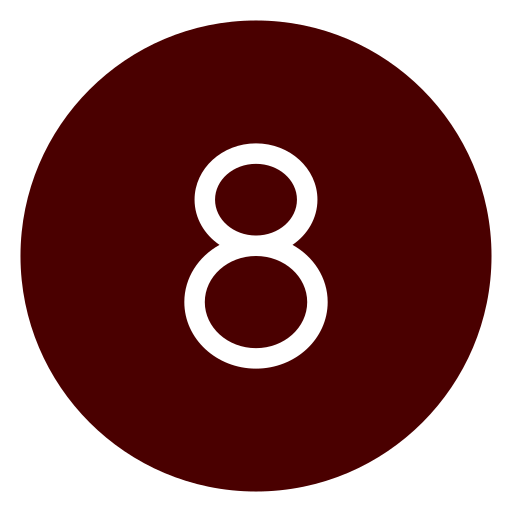
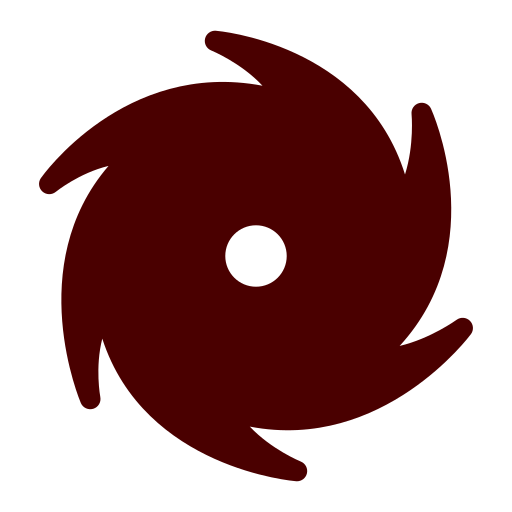
fix: PRE8 uses Icons8 hurricane; tone follows winning weather action
HKO has no PRE8 GIF. Drop the homemade 8-circle. Typical PRE8 sits on TC3.
Tsunami is high-impact with official HKO art. Combo screens no longer keep leftover HSWW yellow when PRE8/T8 wins.

Changed region(s): [[0.0312, 0.0312, 0.9688, 0.9688], [0.3438, 0.2812, 0.6562, 0.7188]]

diff --git a/tests/test_sim_cases.py b/tests/test_sim_cases.py
@@ -75,8 +75,20 @@ def test_black_rain_caption_not_typhoon():
 def test_pre8_has_short_caption():
     snap = build_case("pre8")
     assert snap["priority"]["band"] == "P1"
-    assert "八號" in snap["hko"]["headlineZh"]
-    assert snap["hko"]["headlineZh"] != "香港天文台發出最新熱帶氣旋警報"
+    assert snap["display"]["action"] == "盡早返回有蓋處"
+    assert "八號" in snap["display"]["actionSub"]
+    codes = [s["code"] for s in snap["signals"]]
+    assert "WTCPRE8" in codes
+    assert "TC3" in codes
+
+
+def test_winning_weather_action_sets_tone_not_leftover_hsww():
+    pre8a = build_case("pre8-amber")
+    assert pre8a["display"]["action"] == "盡早返回有蓋處"
+    assert pre8a["tone"] == "p1"
+    stack = build_case("typhoon-stack")
+    assert stack["display"]["action"] == "留在室內"
+    assert stack["tone"] == "p0-tc"
 
 
 def test_amber_plus_tc1_keeps_rest_and_both_signals():
@@ -119,6 +131,7 @@ def test_site_changing_signals_are_high_impact():
         ("rain-black", "WRAINB"),
         ("rain-red", "WRAINR"),
         ("pre8", "WTCPRE8"),
+        ("tsunami", "WTMW"),
         ("landslip", "WL"),
     ):
         snap = build_case(name)
@@ -161,3 +174,23 @@ def test_warning_cases_point_at_real_official_files():
         for rel in rels:
             path = PUBLIC / rel
             assert path.is_file(), f"{case['id']} missing {rel}"
+
+
+def test_display_covers_every_sim_case():
+    missing = []
+    for case in list_cases():
+        snap = case["snapshot"]
+        action = (snap.get("display") or {}).get("action")
+        if not action:
+            missing.append(f"{case['id']}:no-action")
+            continue
+        if action == "正常工作":
+            if snap.get("stale"):
+                continue
+            if snap["tone"] != "idle":
+                missing.append(f"{case['id']}:normal-work-not-idle")
+            continue
+        highs = [s for s in snap["signals"] if s.get("impact") == "high" and s.get("rel")]
+        if not highs and not (snap.get("display") or {}).get("heroRel"):
+            missing.append(f"{case['id']}:no-hero")
+    assert missing == []

diff --git a/services/ingest/app/snapshot.py b/services/ingest/app/snapshot.py
@@ -52,7 +52,7 @@ def is_high_impact(code: str, kind: str = "") -> bool:
     c = code or ""
     if kind == "hsww" or c.startswith("HSWW"):
         return True
-    return c in P0 or c in {"WRAINR", "WTCPRE8"}
+    return c in P0 or c in {"WRAINR", "WTCPRE8", "WTMW"}
 
 
 def build_display(hsww: dict, rest: dict, signals: list) -> dict:
@@ -200,6 +200,19 @@ def build_snapshot(
     signals = build_signals(hsww, warnings, codes, icons_map)
     rest_display = build_display(hsww, rest, signals)
     tone = snapshot_tone(pri, hsww, codes, False)
+    weather_act = ACTIONS.get("weather") or {}
+    win = next((s.get("code") for s in signals if weather_act.get(s.get("code") or "")), None)
+    if win:
+        if str(win).startswith("TC8") or win in {"TC9", "TC10"}:
+            tone = "p0-tc"
+        elif win == "WRAINB":
+            tone = "p0-rain"
+        elif win == "WL":
+            tone = "p0-landslip"
+        elif win == "WTMW":
+            tone = "watch"
+        else:
+            tone = "p1"
     if rest_display.get("action") == "正常工作":
         tone = "idle"
     return {

diff --git a/services/ingest/app/sim_cases.py b/services/ingest/app/sim_cases.py
@@ -178,6 +178,7 @@ SPECS = [
         "id": "pre8",
         "labelZh": "預警八號",
         "group": "tc",
+        "warnsum": _warn("TC3", "熱帶氣旋警告信號", "三號強風信號"),
         "info": _info("WTCPRE8", "天文台預告將改發八號烈風或暴風信號。"),
     },
     {

diff --git a/apps/kiosk/public/status/README.md b/apps/kiosk/public/status/README.md
@@ -1,6 +1,6 @@
 Status marks (not official HKO / Labour Department warnings).
 
-- `work-ok.png` — idle / 正常工作. Icons8 ios-filled “worker-male”. https://icons8.com
-- `pre8.png` — 預警八號 (WTCPRE8). Icons8 ios-filled “8-circle”. HKO has no official PRE8 GIF.
+- `work-ok.png` — idle / 正常工作. Icons8 ios-filled worker-male. https://icons8.com
+- `pre8.png` — 預警八號 (WTCPRE8). Icons8 ios-filled hurricane. HKO has no official PRE8 GIF.
 
 Icons by Icons8.
